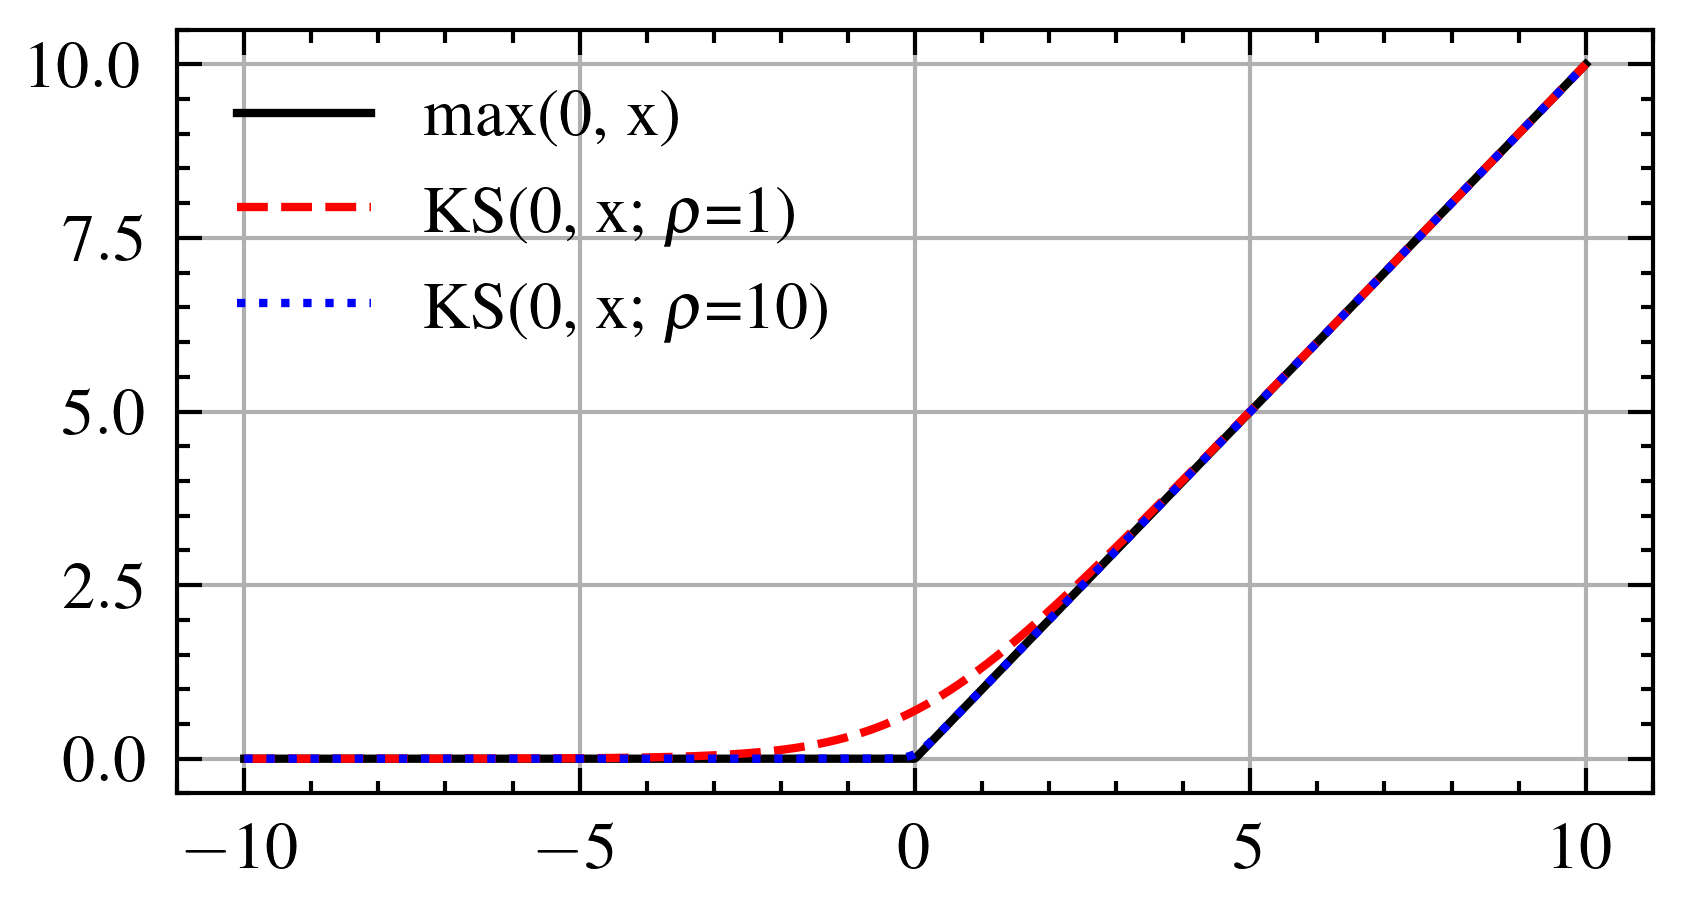
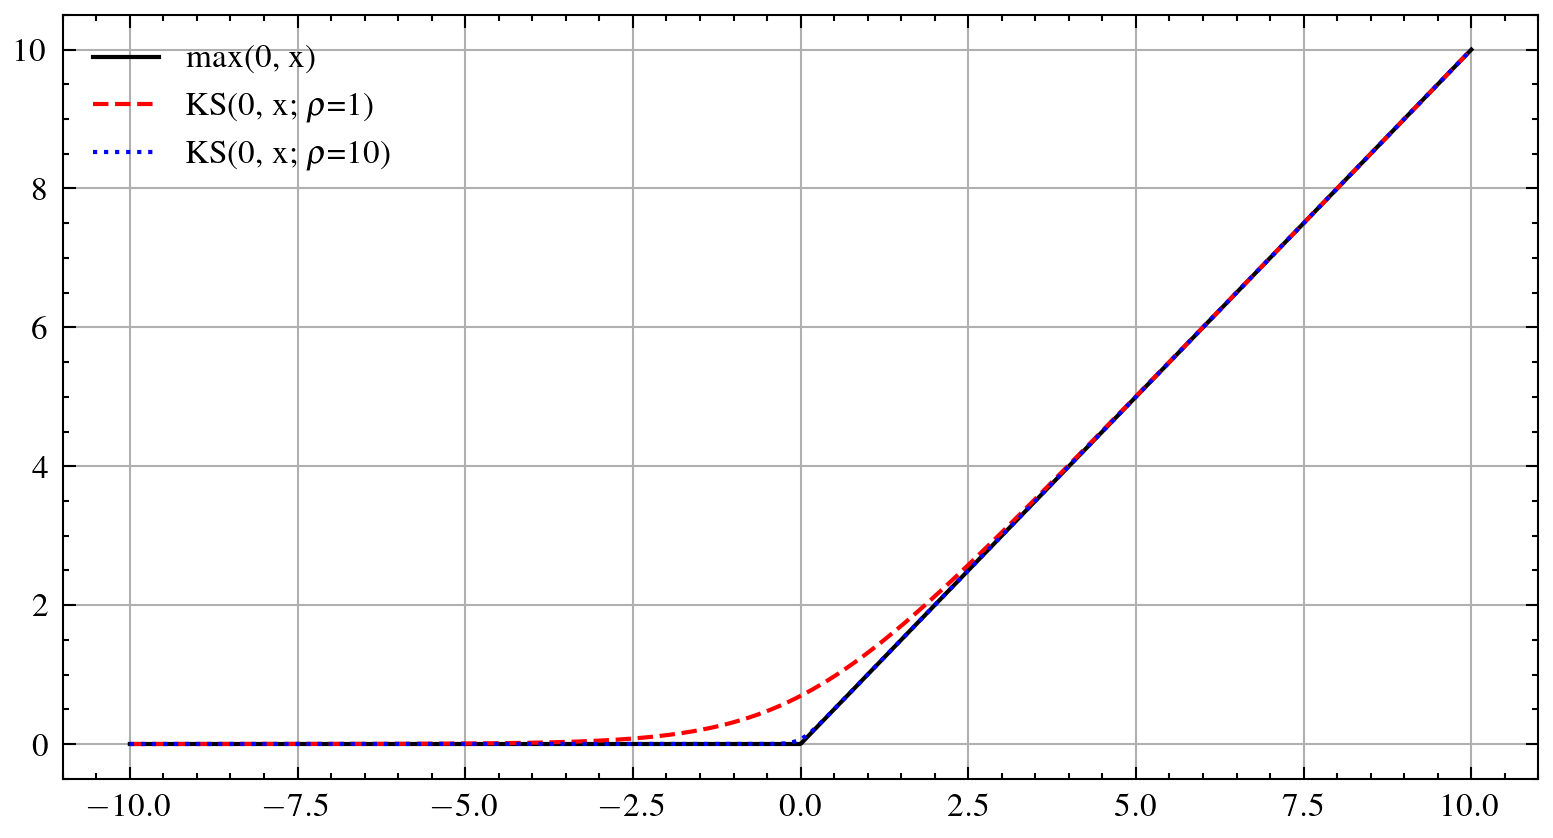
scienceplots with ieee

diff --git a/src/battery_cant_sell.py b/src/battery_cant_sell.py
@@ -3,10 +3,10 @@ import numpy as np
 import matplotlib.pyplot as plt
 from utils import get_solar_field_powers, get_grid_prices_mwh, get_electric_demand_powers
 
-
 # Scienceplots style
-# import scienceplots
-# plt.style.use(["science", "nature"])
+import scienceplots
+plt.style.use(["science", "ieee"])
+plt.rcParams.update({"figure.dpi": "300"})
 
 
 #############

diff --git a/src/battery.py b/src/battery.py
@@ -3,10 +3,10 @@ import numpy as np
 import matplotlib.pyplot as plt
 from utils import get_solar_field_powers, get_grid_prices_mwh
 
-
 # Scienceplots style
-# import scienceplots
-# plt.style.use(["science", "nature"])
+import scienceplots
+plt.style.use(["science", "ieee"])
+plt.rcParams.update({'figure.dpi': '300'})
 
 
 #############

diff --git a/src/battery_free_size.py b/src/battery_free_size.py
@@ -3,10 +3,10 @@ import numpy as np
 import matplotlib.pyplot as plt
 from utils import get_solar_field_powers, get_grid_prices_mwh
 
-
 # Scienceplots style
-# import scienceplots
-# plt.style.use(["science", "nature"])
+import scienceplots
+plt.style.use(["science", "ieee"])
+plt.rcParams.update({'figure.dpi': '300'})
 
 
 #############

diff --git a/figures/ks.py b/figures/ks.py
@@ -1,8 +1,9 @@
 import numpy as np
 import matplotlib.pyplot as plt
-import scienceplots
 
+import scienceplots
 plt.style.use(["science", "ieee"])
+plt.rcParams.update({'figure.dpi': '300'})
 
 
 def ks(g, rho=100):
